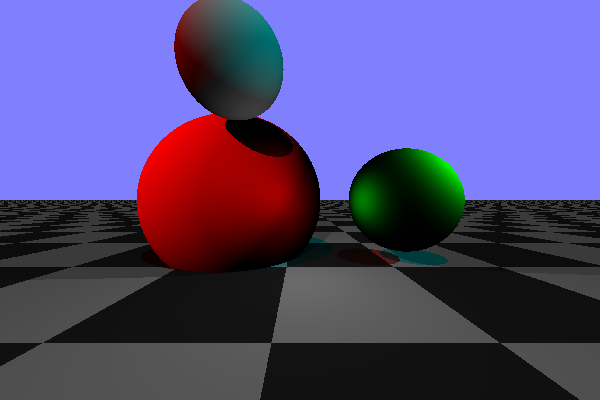
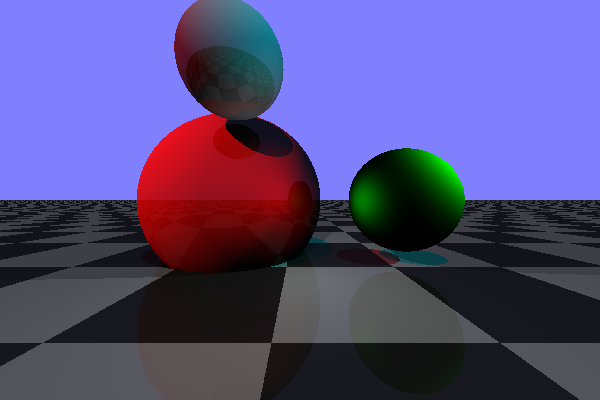
reflection

Changed region(s): [[0.21, 0.24, 0.54, 0.51], [0.27, 0.0, 0.48, 0.27]]

diff --git a/src/scene.rs b/src/scene.rs
@@ -2,8 +2,12 @@ use image::{DynamicImage, GenericImage, Rgba};
 
 use crate::base::{Color, Drawable, Intersection, Ray};
 use crate::lighting::Lighting;
+use crate::material::SurfaceType;
 
 const SHADOW_BIAS: f64 = 1e-13;
+const MAX_RECURSION_DEPTH: u32 = 5;
+
+const SKY_COLOR: [u8; 4] = [128, 128, 255, 255];
 
 pub struct Scene {
     width: u32,
@@ -32,16 +36,15 @@ impl Scene {
         let start_time = std::time::SystemTime::now();
 
         let mut image = DynamicImage::new_rgba8(self.width, self.height);
-        let black = Rgba([128, 128, 255, 255]);
         for x in 0..self.width {
             for y in 0..self.height {
                 let ray = Ray::new(x, y, self);
 
                 let trace = self.trace(&ray);
                 if trace.is_some() {
-                    image.put_pixel(x, y, to_rgba(&self.get_color(&ray, &trace.unwrap())));
+                    image.put_pixel(x, y, to_rgba(&self.get_color(&ray, &trace.unwrap(), 1)));
                 } else {
-                    image.put_pixel(x, y, black);
+                    image.put_pixel(x, y, Rgba(SKY_COLOR));
                 }
             }
         }
@@ -72,8 +75,9 @@ impl Scene {
         }
         objs.into_iter().min_by(|i1, i2| i1.get_distance().partial_cmp(&i2.get_distance()).unwrap())
     }
-    fn get_color(&self, ray: &Ray, intersection: &Intersection) -> Color {
-        let hit_point = ray.get_origin()
+    fn get_color(&self, ray: &Ray, intersection: &Intersection, depth: u32) -> Color {
+        let hit_point = ray
+            .get_origin()
             .plus(&ray.get_direction()
                 .factor(intersection.get_distance()));
         let surface_normal = intersection.get_object().surface_normal(&hit_point);
@@ -95,20 +99,35 @@ impl Scene {
                 shadow_intersection.unwrap().get_distance() > direction_to_light.euclidian_distance();
             ;
 
+            let object = intersection.get_object();
+
             let light_intensity = if in_light {
                 surface_normal.normalize()
                     .dot(&direction_to_light_norm)
-                    .powf(intersection.get_object().get_glossiness())
+                    .powf(object.get_material().get_glossiness())
                     .max(0.0) * light.get_intensity(&hit_point)
             } else { 0.0 };
             let light_reflected = 1.0; // todo: implementiraj
 
             let light_color = light.get_color().get();
-            let obj_color = intersection.get_object().get_texture_color(&hit_point).get();
+            let obj_color = object.get_texture_color(&hit_point).get();
 
             color[0] += light_color[0] as f64 * obj_color[0] as f64 * light_intensity * light_reflected / 255.0;
             color[1] += light_color[1] as f64 * obj_color[1] as f64 * light_intensity * light_reflected / 255.0;
             color[2] += light_color[2] as f64 * obj_color[2] as f64 * light_intensity * light_reflected / 255.0;
+
+            if let SurfaceType::Reflective { reflectivity } = object.get_material().get_surface_type() {
+                let reflection_ray = Ray::from_reflection(&surface_normal, ray.get_direction(),
+                                                          &hit_point, SHADOW_BIAS);
+                for elem in color.iter_mut() {
+                    *elem *= 1.0 - *reflectivity;
+                }
+
+                let reflect_color = self.cast_ray(&reflection_ray, depth + 1).get();
+                color[0] += reflect_color[0] as f64 * *reflectivity;
+                color[1] += reflect_color[1] as f64 * *reflectivity;
+                color[2] += reflect_color[2] as f64 * *reflectivity;
+            }
 
 //            println!("Light intensity {} light color {:?} obj color {:?} color {:?}", light_intensity,
 //                     light_color, obj_color, color);
@@ -119,5 +138,15 @@ impl Scene {
         Color::new(*color.get(0).unwrap(),
                    *color.get(1).unwrap(),
                    *color.get(2).unwrap())
+    }
+    fn cast_ray(&self, ray: &Ray, depth: u32) -> Color {
+        let black_color = Color::new(SKY_COLOR[0], SKY_COLOR[1], SKY_COLOR[2]);
+        if depth >= MAX_RECURSION_DEPTH {
+            return black_color;
+        }
+
+        let intersection = self.trace(ray);
+        intersection.map(|i| self.get_color(ray, &i, depth))
+            .unwrap_or(black_color)
     }
 }

diff --git a/src/material.rs b/src/material.rs
@@ -4,6 +4,12 @@ pub struct Material {
     texture: Box<dyn Texture>,
     albedo: f64,
     glossiness: f64,
+    surface_type: SurfaceType,
+}
+
+pub enum SurfaceType {
+    Diffuse,
+    Reflective { reflectivity: f64 },
 }
 
 pub trait Texture {
@@ -29,18 +35,20 @@ impl Texture for ConstantTexture {
 }
 
 impl Material {
-    pub fn new(texture: Box<dyn Texture>, albedo: f64, glossiness: f64) -> Material {
+    pub fn new(texture: Box<dyn Texture>, surface_type: SurfaceType, albedo: f64, glossiness: f64) -> Material {
         Material {
             texture: texture,
             albedo: albedo,
             glossiness: glossiness,
+            surface_type: surface_type,
         }
     }
-    pub fn new_constant(color: Color, albedo: f64, glossiness: f64) -> Material {
+    pub fn new_constant(color: Color, surface_type: SurfaceType, albedo: f64, glossiness: f64) -> Material {
         Material {
             texture: Box::new(ConstantTexture::new(color)),
             albedo: albedo,
             glossiness: glossiness,
+            surface_type: surface_type,
         }
     }
     pub fn get_texture(&self) -> &Box<dyn Texture> {
@@ -52,6 +60,7 @@ impl Material {
     pub fn get_albedo(&self) -> f64 {
         self.albedo
     }
+    pub fn get_surface_type(&self) -> &SurfaceType { &self.surface_type }
 }
 
 pub struct CheckeredPatternTexture {
@@ -72,7 +81,7 @@ impl CheckeredPatternTexture {
 impl Texture for CheckeredPatternTexture {
 
     fn get_color(&self, x: f64, y: f64) -> Color {
-        let mut cell_x = x.round() as u32 / self.width as u32;
+        let cell_x = x.round() as u32 / self.width as u32;
         let cell_y = y.round() as u32 / self.height as u32;
 
         if (cell_x + cell_y) % 2 == 0 {

diff --git a/src/main.rs b/src/main.rs
@@ -14,27 +14,28 @@ fn main() {
     scene.add_object(Box::new(Plane::new(
         Vector::new(0.0, 1.0, 0.0),
         Vector::new(0.0, -2.5, 0.0),
-        Material::new(Box::new(CheckeredPatternTexture::new(Color::new(100, 100, 100), 4, 4)),
-    1.0, 1.0),
+        Material::new(Box::new(CheckeredPatternTexture::new(
+            Color::new(100, 100, 100), 4, 4)),
+    SurfaceType::Reflective {reflectivity: 0.02},1.0, 1.0),
     )));
 
     scene.add_object(Box::new(Sphere::new(
         Vector::new(-3.0, 0.0, -10.0),
         4.0,
         Material::new_constant(Color::new(255, 0, 0),
-                               1.0, 1.0),
+                               SurfaceType::Reflective {reflectivity: 0.04}, 1.0, 1.0),
     )));
     scene.add_object(Box::new(Sphere::new(
         Vector::new(4.0, 0.0, -8.0),
         2.0,
         Material::new_constant(Color::new(0, 255, 0),
-                               1.0, 3.5)
+                               SurfaceType::Diffuse, 1.0, 3.5)
     )));
     scene.add_object(Box::new(Sphere::new(
         Vector::new(-2.0, 4.0, -6.0),
         1.5,
         Material::new_constant(Color::new(128, 128, 128),
-                               1.0, 1.0)
+                               SurfaceType::Reflective {reflectivity: 0.05}, 1.0, 1.0)
     )));
 
     scene.add_light(Box::new(
@@ -65,4 +66,4 @@ fn main() {
     }
 }
 
-use gametest::material::{Material, CheckeredPatternTexture};
+use gametest::material::{Material, CheckeredPatternTexture, SurfaceType};

diff --git a/src/base.rs b/src/base.rs
@@ -1,5 +1,6 @@
 use crate::scene::Scene;
 use crate::vector::Vector;
+use crate::material::Material;
 
 pub struct Point2D {
     pub x: f64,
@@ -17,8 +18,7 @@ pub trait Textureable {
 }
 
 pub trait Drawable: Intersectable + Textureable {
-    fn get_glossiness(&self) -> f64;
-    fn get_albedo(&self) -> f64;
+    fn get_material(&self) -> &Material;
 }
 
 pub trait Colorable {
@@ -66,6 +66,12 @@ impl Ray {
         Ray {
             origin: origin,
             direction: direction,
+        }
+    }
+    pub fn from_reflection(normal: &Vector, incident: &Vector, intersection: &Vector, bias: f64) -> Ray {
+        Ray {
+            origin: intersection.plus(&normal.factor(bias)),
+            direction: incident.minus(&normal.factor(2.0 * incident.dot(&normal)))
         }
     }
     pub fn get_origin(&self) -> &Vector {

diff --git a/src/objects/sphere.rs b/src/objects/sphere.rs
@@ -58,12 +58,8 @@ impl Intersectable for Sphere {
 }
 
 impl Drawable for Sphere {
-    fn get_glossiness(&self) -> f64 {
-        self.material.get_glossiness()
-    }
-
-    fn get_albedo(&self) -> f64 {
-        self.material.get_albedo()
+    fn get_material(&self) -> &Material {
+        &self.material
     }
 }
 

diff --git a/src/objects/plane.rs b/src/objects/plane.rs
@@ -38,12 +38,8 @@ impl Intersectable for Plane {
 }
 
 impl Drawable for Plane {
-    fn get_glossiness(&self) -> f64 {
-        self.material.get_glossiness()
-    }
-
-    fn get_albedo(&self) -> f64 {
-        self.material.get_albedo()
+    fn get_material(&self) -> &Material {
+        &self.material
     }
 }
 
